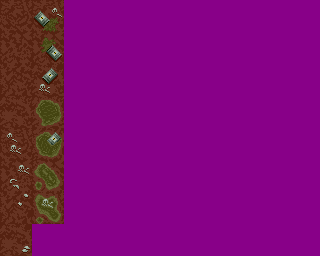
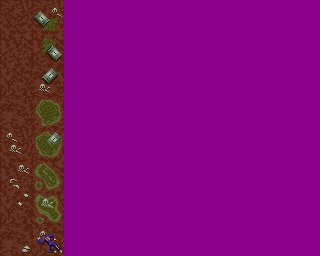
extract all tiles from res file, use in level generation

Changed region(s): [[0.0938, 0.875, 0.2188, 1.0]]

diff --git a/src/game.c b/src/game.c
@@ -104,7 +104,6 @@
 #define BG_TILE_SIZE (1 << BG_TILE_SHIFT)
 #define BG_TILES_X (MAP_TILES_X * MAP_TILE_SIZE / BG_TILE_SIZE)
 #define BG_TILES_Y (MAP_TILES_Y * MAP_TILE_SIZE / BG_TILE_SIZE)
-#define BG_TILE_COUNT 8
 #define SPRITE_CHANNEL_CURSOR 4
 
 #define COLOR_FRAME_HURT 23
@@ -1622,19 +1621,23 @@ void gameApplyPerk(tPerk ePerk) {
 }
 
 void gameStart(void) {
+	UBYTE wasDweller = 0;
 	for(UBYTE ubX = 0; ubX < BG_TILES_X; ++ubX) {
 		for(UBYTE ubY = 0; ubY < BG_TILES_Y; ++ubY) {
 			UWORD uwRand = randUwMinMax(&g_sRand, 0, 99);
-			if(uwRand < 5) {
-				gameSetTile(randUwMinMax(&g_sRand, 3, 5), ubX, ubY);
+			if(uwRand == 0 && !wasDweller) {
+				wasDweller = 1;
+				gameSetTile(15, ubX, ubY);
+			}
+			else if(uwRand < 5) {
+				gameSetTile(randUwMinMax(&g_sRand, 4, 10), ubX, ubY);
 			}
 			else if(uwRand < 15) {
-				gameSetTile(randUwMinMax(&g_sRand, 6, 7), ubX, ubY);
+				gameSetTile(randUwMinMax(&g_sRand, 11, 14), ubX, ubY);
 			}
 			else {
-				gameSetTile(randUwMinMax(&g_sRand, 0, 2), ubX, ubY);
+				gameSetTile(randUwMinMax(&g_sRand, 0, 3), ubX, ubY);
 			}
-			// gameSetTile(randUwMinMax(&g_sRand, 0, 4), ubX, ubY);
 		}
 	}
 